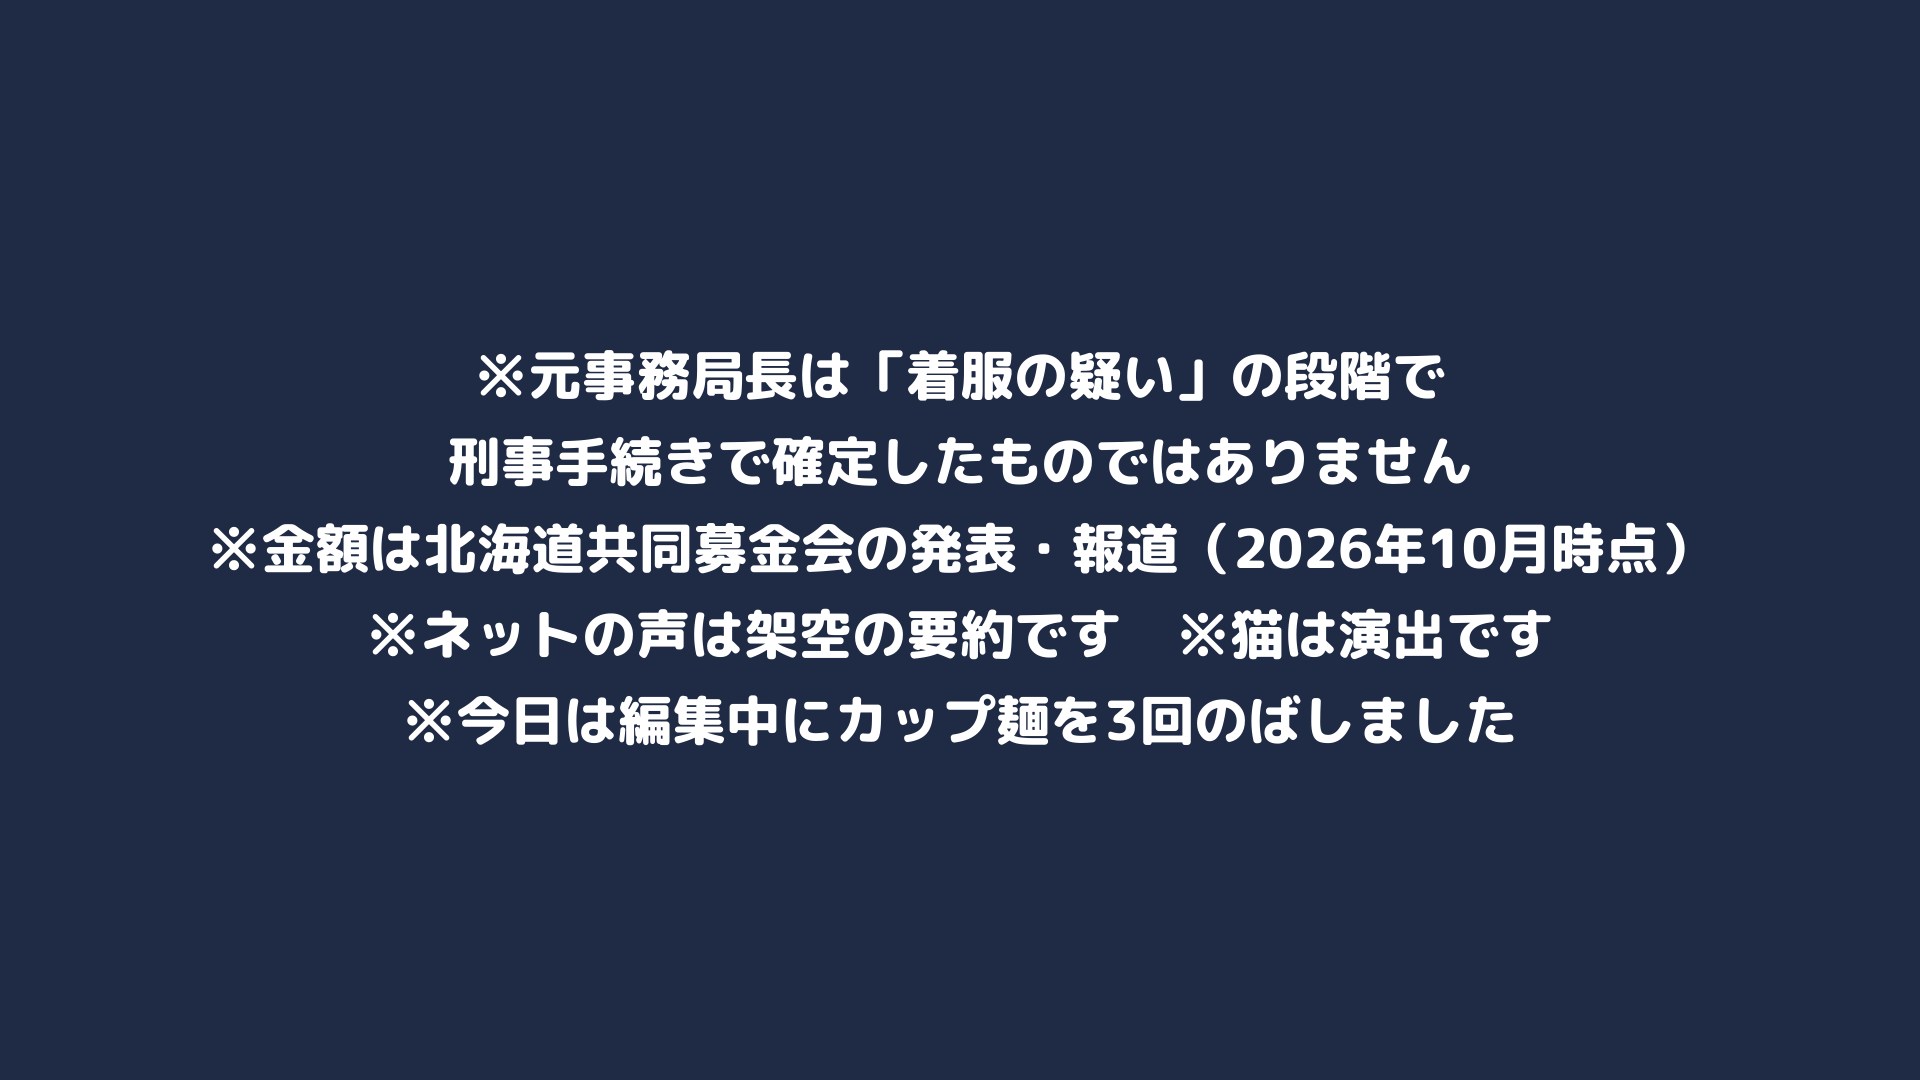
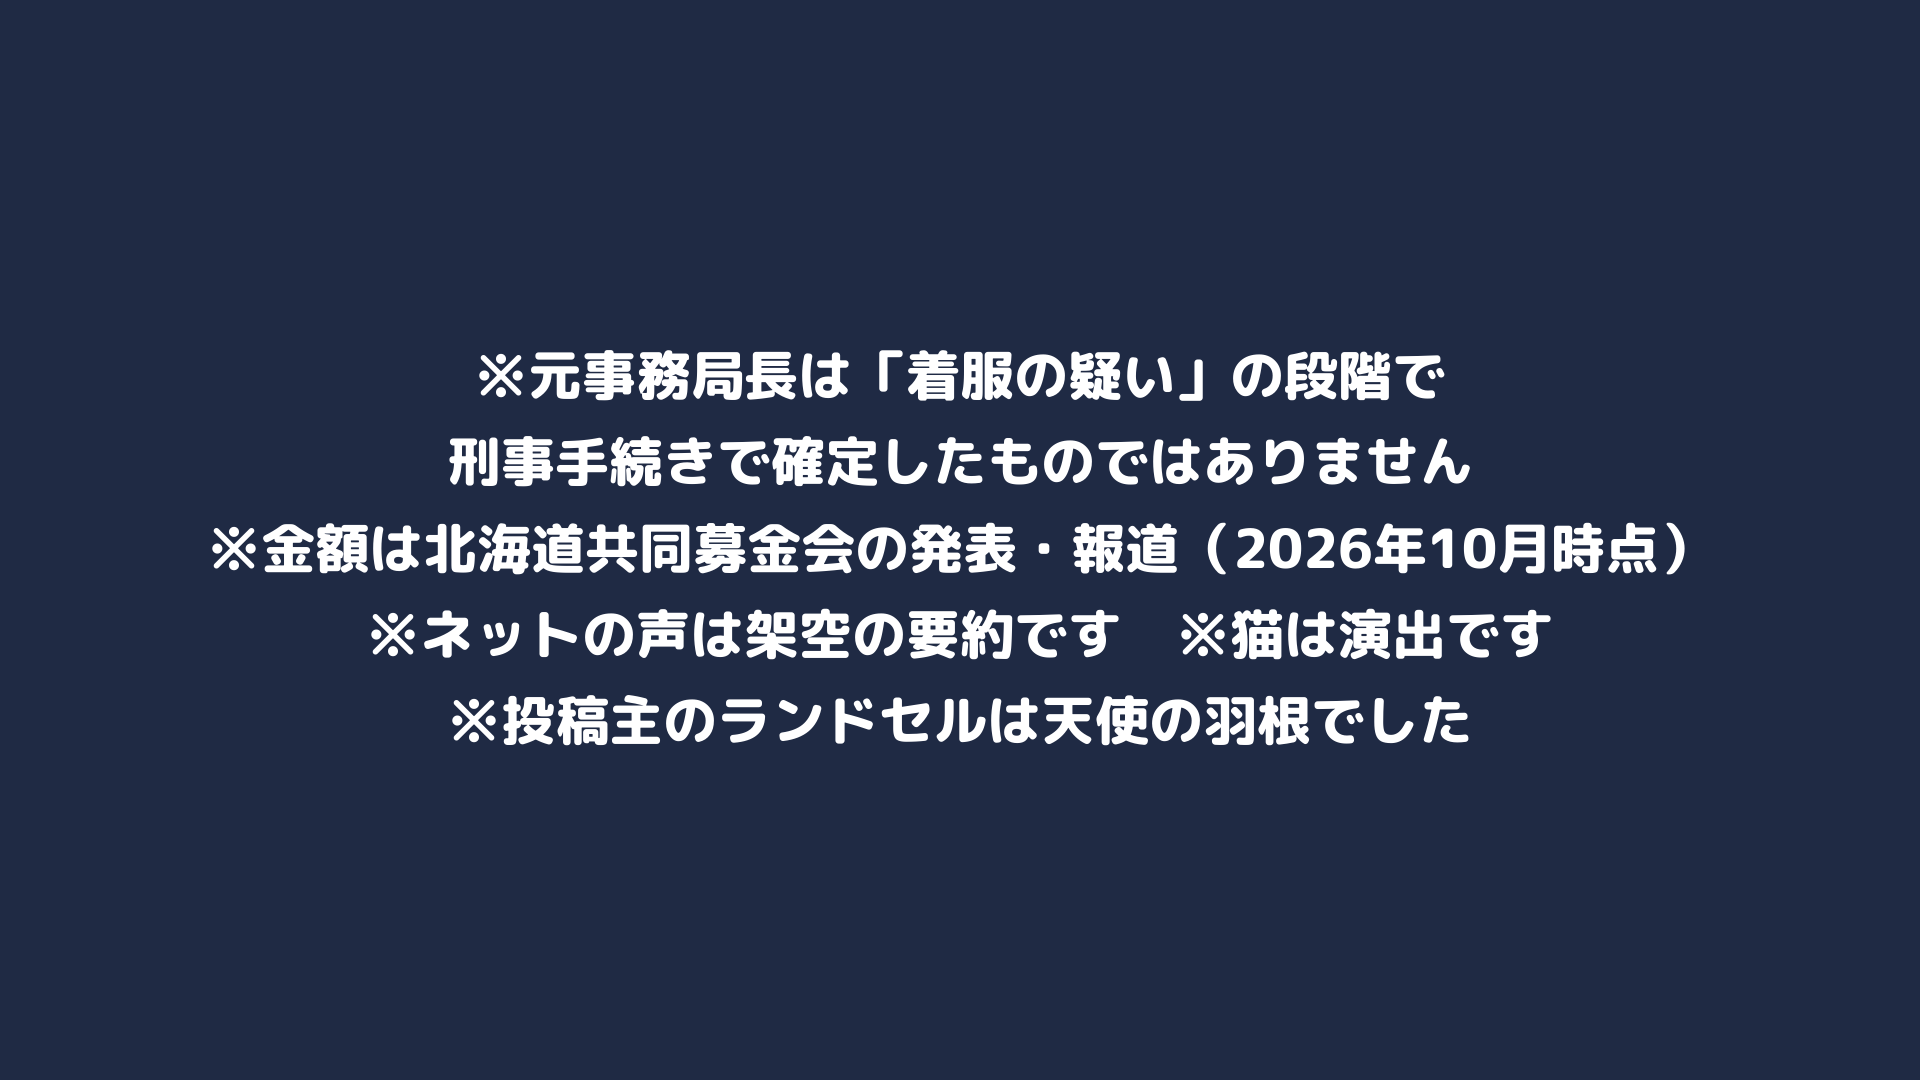
12本目：今日の一言を「※投稿主のランドセルは天使の羽根でした」に
Claude-Session: https://claude.ai/code/session_011g9CsrfFD5YswfNSvNDW39

Changed region(s): [[0.2188, 0.6417, 0.7812, 0.7028]]

diff --git a/catmeme/make_parts_12_akaihane.py b/catmeme/make_parts_12_akaihane.py
@@ -17,7 +17,7 @@ PREV = os.path.join(OUT, "preview")
 ITEMS = {
     "e00_notice": P.message(["※元事務局長は「着服の疑い」の段階で", "刑事手続きで確定したものではありません",
                              "※金額は北海道共同募金会の発表・報道（2026年10月時点）", "※ネットの声は架空の要約です　※猫は演出です",
-                             "※今日は編集中にカップ麺を3回のばしました"],   # 最後の行は今日の一言（指定がないのでこちらで考えた）
+                             "※投稿主のランドセルは天使の羽根でした"],   # 最後の行は今日の一言（ユーザー指定 10/12）
                             opaque=True, size=54),
     "e01_title": P.message(["赤い羽根募金、2.5億円が消えた", "善意はどこへ行った？"], sub="2026年　北海道共同募金会の使途不明金", size=96),
     "e02_flow": P.flow("赤い羽根募金　お金の流れ", hsize=56, ssize=46, steps=[
